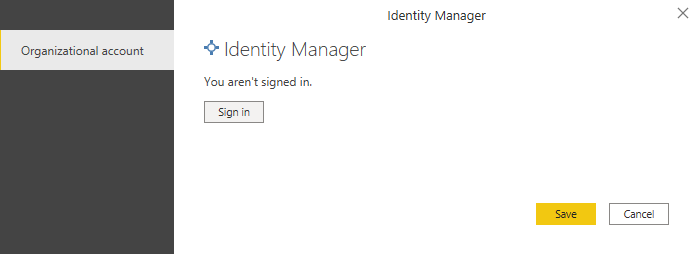
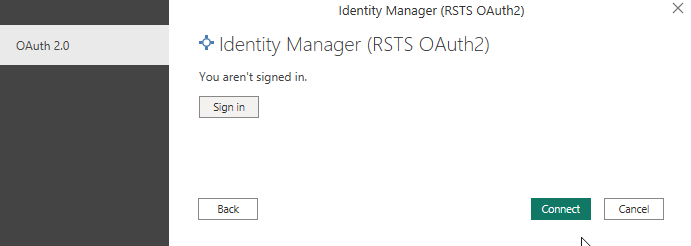
Change/master/rework connector (#1)
* Refine connector

diff --git a/README.md b/README.md
@@ -8,7 +8,7 @@
   <ol>
     <li><a href="#about-the-project">About the project</a></li>
     <li><a href="#preview">A simple report preview</a></li>    
-    <li><a href="#quickstart">Quickstart</a></li>    
+    <li><a href="#development-quickstart">Quickstart</a></li>    
     <li><a href="#usage">Usage</a></li>
     <li><a href="#contributing">Contributing</a></li>
     <li><a href="#pitfalls">Pitfalls</a></li>
@@ -22,57 +22,54 @@
 
 This is a simple Power BI Custom Connector for [One Identity' Identity Manager](https://www.oneidentity.com/products/identity-manager/).
 
-Historically there never was a simple, centralized and widely used reporting solution available for customers. PowerBI is the first solution that gets a reach into customer organizations and there is a trend that customers are going to use PowerBI as a central reporting engine. Even if One Identity Manager is based on a SQL Server database and PowerBI is providing a SQL Server data source, with the raise of One Identity Manager OnDemand as well as more and more customers using SQL Managed Instance in Azure, SQL is not necessarily a protocol that can be used.
+Historically, there has never been a simple, centralized and widely used reporting solution for customers. PowerBI is the first solution to reach into customer organizations, and there is a trend for customers to use PowerBI as their central reporting engine. Even though One Identity Manager is based on a SQL Server database and PowerBI provides a SQL Server data source, with the rise of One Identity Manager OnDemand and more customers using SQL Managed Instance in Azure, SQL is not necessarily a protocol that can be used.
 
-The Power BI connector for One Identity Manager is built for replacing the requirement of direct SQL access to a One Identity Manager database. Instead the ReST API of the Application Server is used for connecting to a One Identity Manager. The benefits are
+The Power BI connector for One Identity Manager is designed to replace the need for direct SQL access to a One Identity Manager database. Instead, it uses the application server's REST API to connect to a One Identity Manager database. The benefits are:
   - using https as a protocol instead of SQL
-  - by requiring a One Identity Manager authentication the permissions layer in One Identity Manager ensuring that users only get information they are supposed to see.
-
-Once the custom connector reaches it stable status, One Identity will be seeking certification by Microsoft.
+  - by requiring One Identity Manager authentication, the permissions layer in One Identity Manager ensures that users see only the information they are authorized to see
 
 <!-- PREVIEW -->
 ## A simple report preview
 
-Just one sample demo report by using the Power BI Custom Connector
+Just one sample demo report by using the Power BI Custom Connector:
 
 ![Identity Manager Power BI custom data connector loading](img/identity_manager_power_bi_sample_report.png)
 
-<!-- QUICKSTART -->
-## Quickstart
+<!-- Development QUICKSTART -->
+## Development Quickstart
 
 1. Install [Microsoft Visual Studio 2019](https://visualstudio.microsoft.com/vs/)
 2. Install the [Power Query SDK](https://aka.ms/powerquerysdk) from the Visual Studio Marketplace
 3. Clone [this project](https://github.com/OneIdentity/IdentityManager.PowerBI)
-4. Modify the values for `token_uri`, `authorize_uri` and `logout_uri` in file [IdentityManager.pq](https://github.com/OneIdentity/IdentityManager.PowerBI/blob/master/src/IdentityManager/IdentityManager.pq) to match your installation of the Secure Token Server (STS) which is part of the [One Identity' Identity Manager](https://www.oneidentity.com/products/identity-manager/)
-5. Compile the project
-6. Copy the resulting `IdentityManager.mez` file over to the machine running Microsoft Power BI Desktop
-7. If not already done, create a folder structure as `Microsoft Power BI Desktop\Custom Connectors` under your documents directory (`C:\Users\<Your-Profile-Name>\Documents\`) and place the `IdentityManager.mez` file there
-8. Restart [Power BI Desktop](https://powerbi.microsoft.com/en-us/)
+4. Compile the project
+5. Copy the resulting `IdentityManager.mez` file over to the machine running Microsoft Power BI Desktop
+6. If not already done, create a folder structure as `Microsoft Power BI Desktop\Custom Connectors` under your documents directory (`C:\Users\<Your-Profile-Name>\Documents\`) and place the `IdentityManager.mez` file there
+7. Restart [Power BI Desktop](https://powerbi.microsoft.com/en-us/)
 
 <!-- USAGE EXAMPLES -->
 ## Usage
 
-Once the file `IdentityManager.mez` is in place you can load the custom data connector:
+Once the file `IdentityManager.mez` is in place, you can load the Custom Connector:
 
 ![Identity Manager Power BI custom data connector loading](img/identity_manager_power_bi-_custom_data_connector_selection.png)
 
-As the Power BI Custom Connector for One Identity Manager is unsigned you will receive an error like this:
+Because the Power BI Custom Connector for One Identity Manager is unsigned, you receive an error like this:
 
 ![Identity Manager Power BI custom data connector security warning](img/identity_manager_power_bi-_custom_data_connector_security_warning.png)
 
-When the connector is loaded you have to specify the URL for the Application Server and the table name you would like to query:
+When the connector is loaded you have to specify the URL for the Application Server and the URL of the Redistributable Secure Token Server (RSTS):
 
 ![Identity Manager Power BI custom data connector parameters](img/identity_manager_power_bi-_custom_data_connector_parameter.png)
 
-At the first try you have to sign in
+You will need to log in the first time you try to make a connection:
 
 ![Identity Manager Power BI custom data connector sign in](img/identity_manager_power_bi-_custom_data_sign_in.png)
 
-The Secure Token Server is using OAuth2, therefore we just log into a domain
+The Secure Token Server uses OAuth2, so we just log in to a domain:
 
 ![Identity Manager Power BI custom data connector oauth authentication](img/identity_manager_power_bi-_custom_data_connector_oauth.png)
 
-After successful authentication and login we are able to retrieve a data preview
+After successfully authenticating and logging in, we see the following dialog. The Identity Manager Power BI Custom Connector uses OpenAPI to access all Application Server functions that can return data. All of these functions can be used in PowerBI queries:
 
 ![Identity Manager Power BI custom data connector data preview](img/identity_manager_power_bi-_custom_data_connector_data_preview.png)
 
@@ -90,9 +87,10 @@ Contributions are what make the open source community such an amazing place to b
 <!-- PITFALLS -->
 ## Pitfalls
 
-* **This will only work with the upcoming Identiy Manager 8.2 release**. Any prior release will not work.
-* You have to assign an OAuth 2.0/OpenID connect application to the application server web app.
-* You have to assign the feature group `Enables access to the REST API in the application server.` to your final login account.
+* **This will only work with Identiy Manager 8.2 and greater**. Any prior release will not work.
+* You must allow non-certified custom connectors in Power BI Desktop as shown [here](https://learn.microsoft.com/en-us/power-bi/connect-data/desktop-connector-extensibility#data-extension-security)
+* You must assign an OAuth 2.0/OpenID connect application to the application server web app as shown [here](https://support.oneidentity.com/de-de/technical-documents/identity-manager/9.1/authorization-and-authentication-guide/28#TOPIC-1872879)
+* You must assign the feature group `Enables access to the REST API in the application server.` to the login account used in the Custom Connector during the OAuth2 login process.
 
 <!-- LICENSE -->
 ## License
